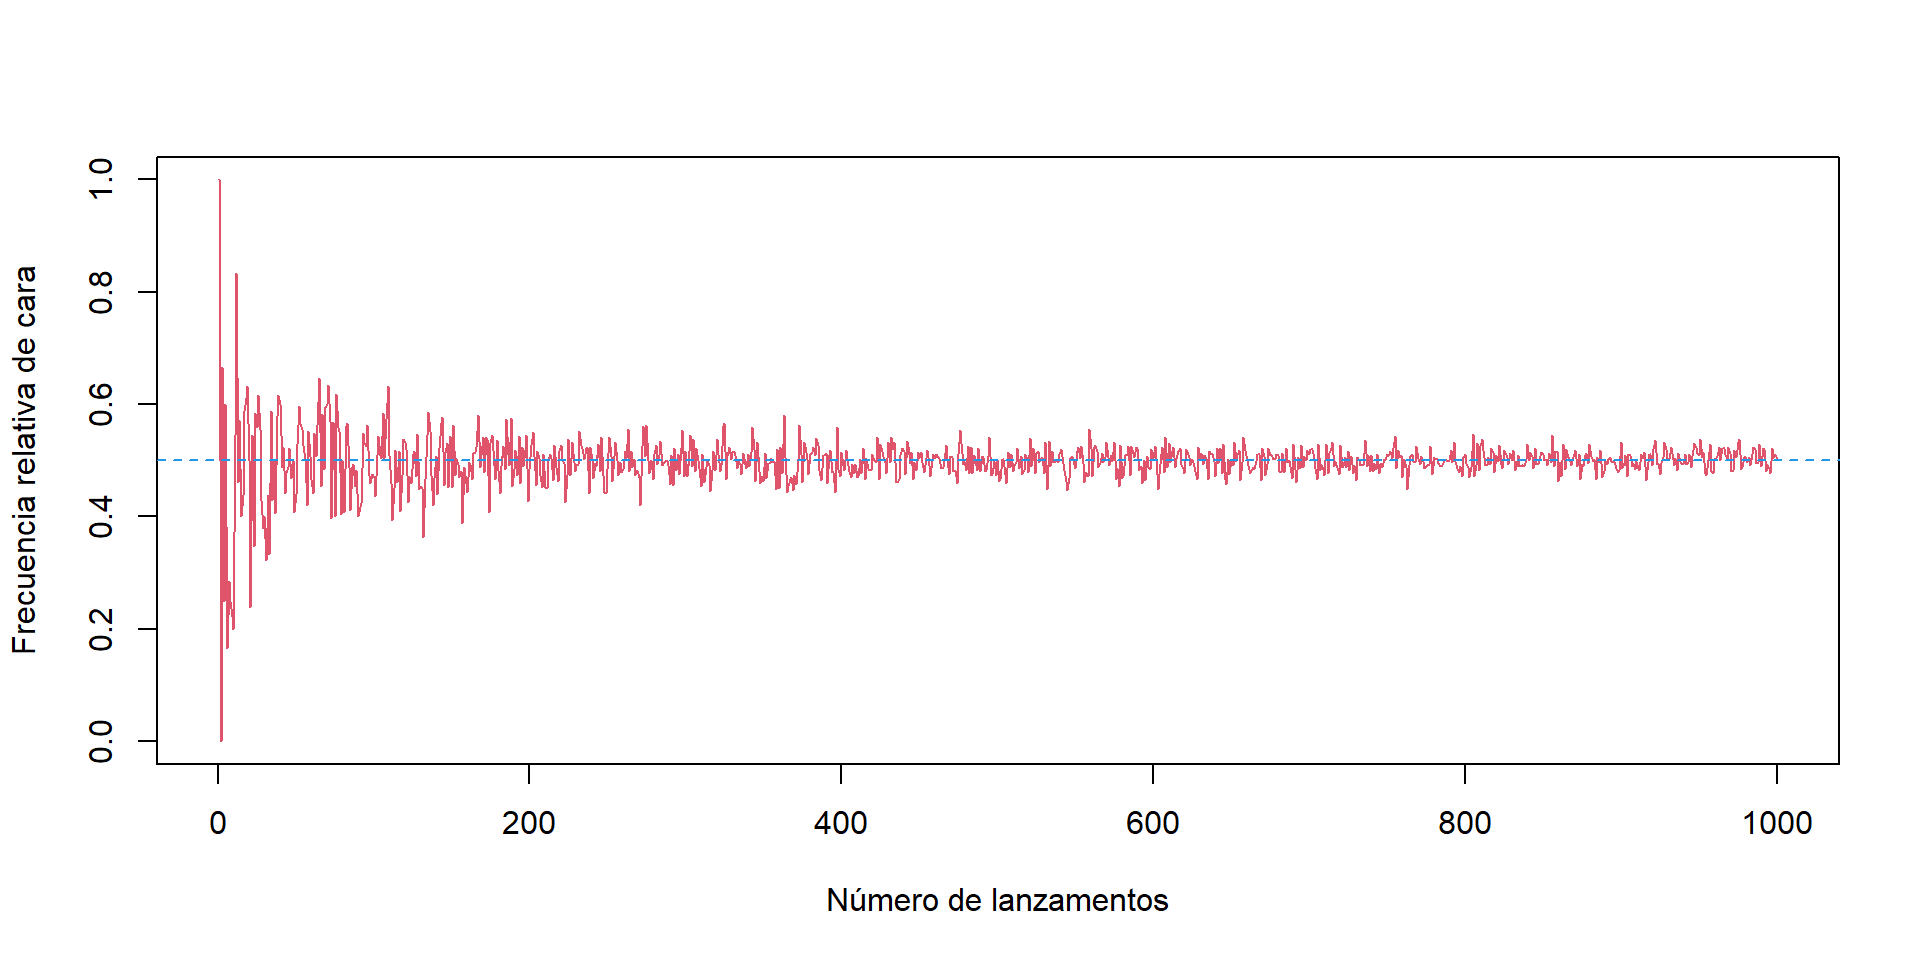
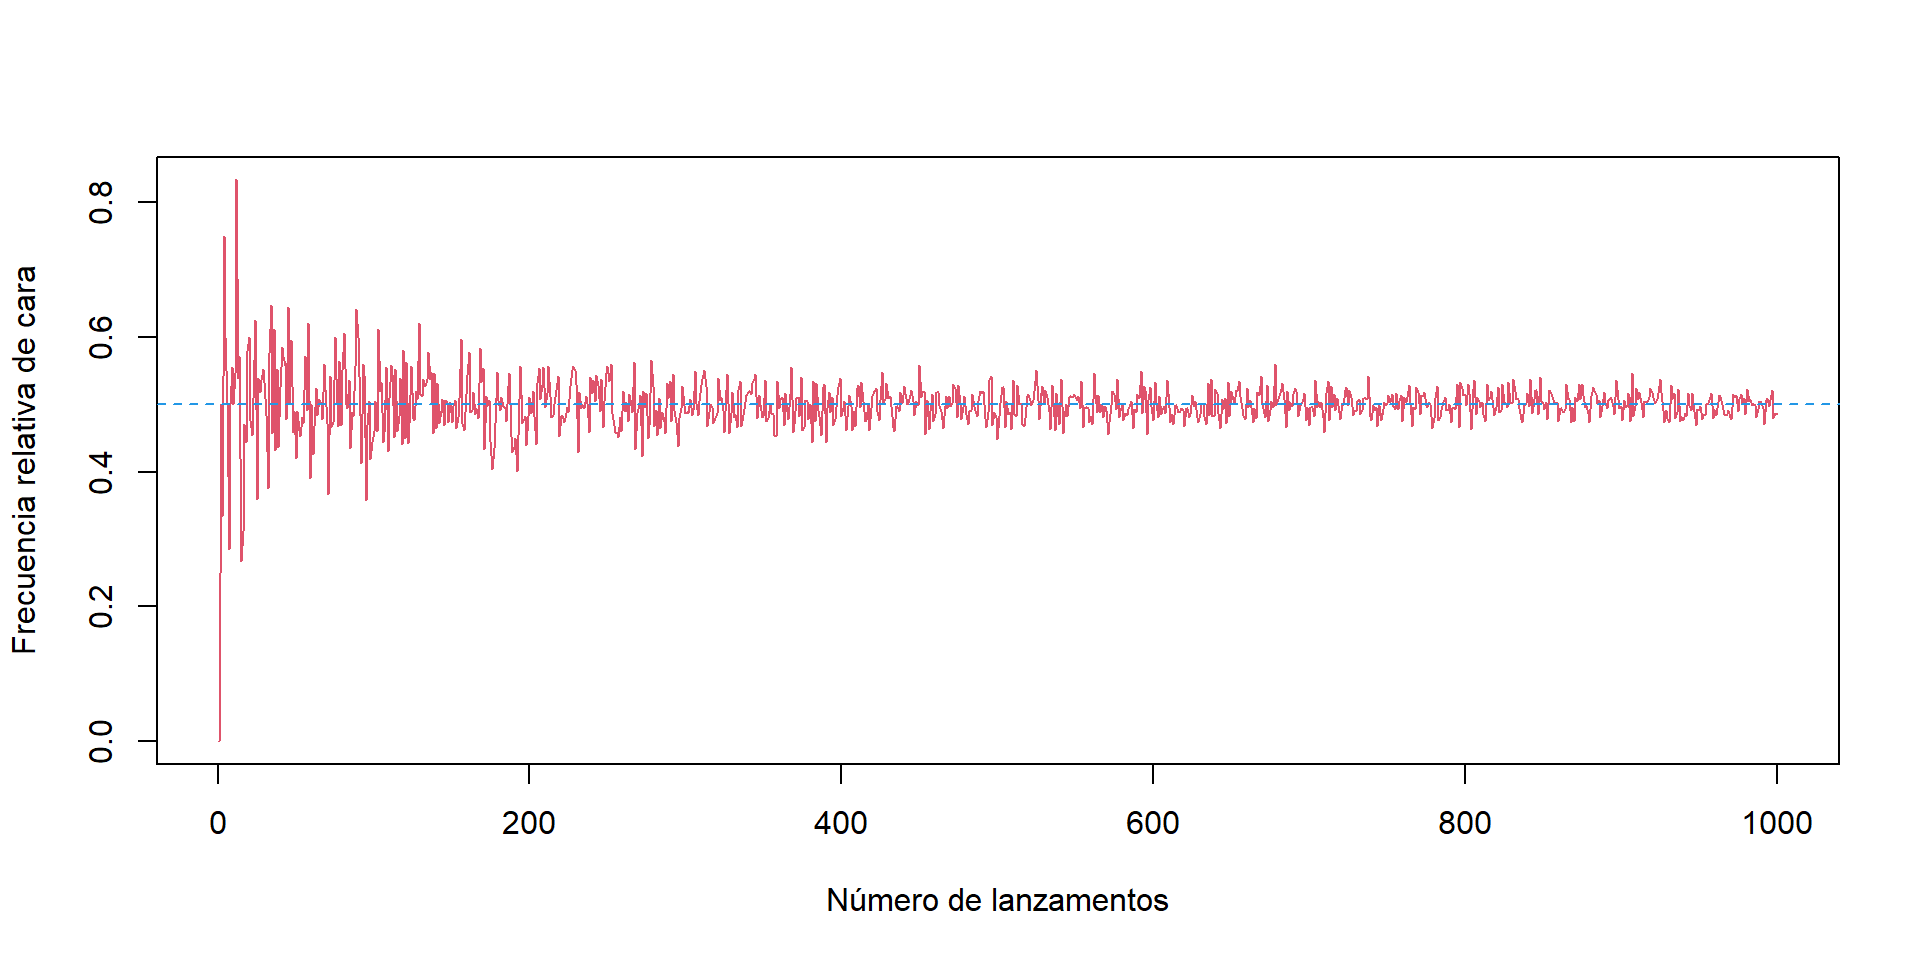
Update EPE

diff --git a/materials/EPE/slides/Tema3_presentacion.html b/materials/EPE/slides/Tema3_presentacion.html
@@ -628,7 +628,7 @@ P(A_i\mid B) =
 <div class="mysmall">
 <p>Xa vimos que unha forma de calcular probabilidades consiste en contar casos posibles e casos favorables, cando todos os resultados son equiprobables (<strong>regra de Laplace</strong>). Ás veces este reconto pode facerse directamente, pero noutras situacións o número de casos é demasiado grande. Neses casos, a combinatoria permítenos contar sen ter que enumerar todos os resultados.</p>
 <div class="columns">
-<div class="column" style="width:48%;">
+<div class="column" style="width:50%;">
 <div class="callout callout-note no-icon callout-titled callout-style-default">
 <div class="callout-body">
 <div class="callout-title">
@@ -644,7 +644,7 @@ P(\text{2 caras})=\frac{3}{8}.
 </div>
 </div>
 </div>
-</div><div class="column" style="width:52%;">
+</div><div class="column" style="width:48%;">
 <div class="callout callout-note no-icon callout-titled callout-style-default">
 <div class="callout-body">
 <div class="callout-title">
